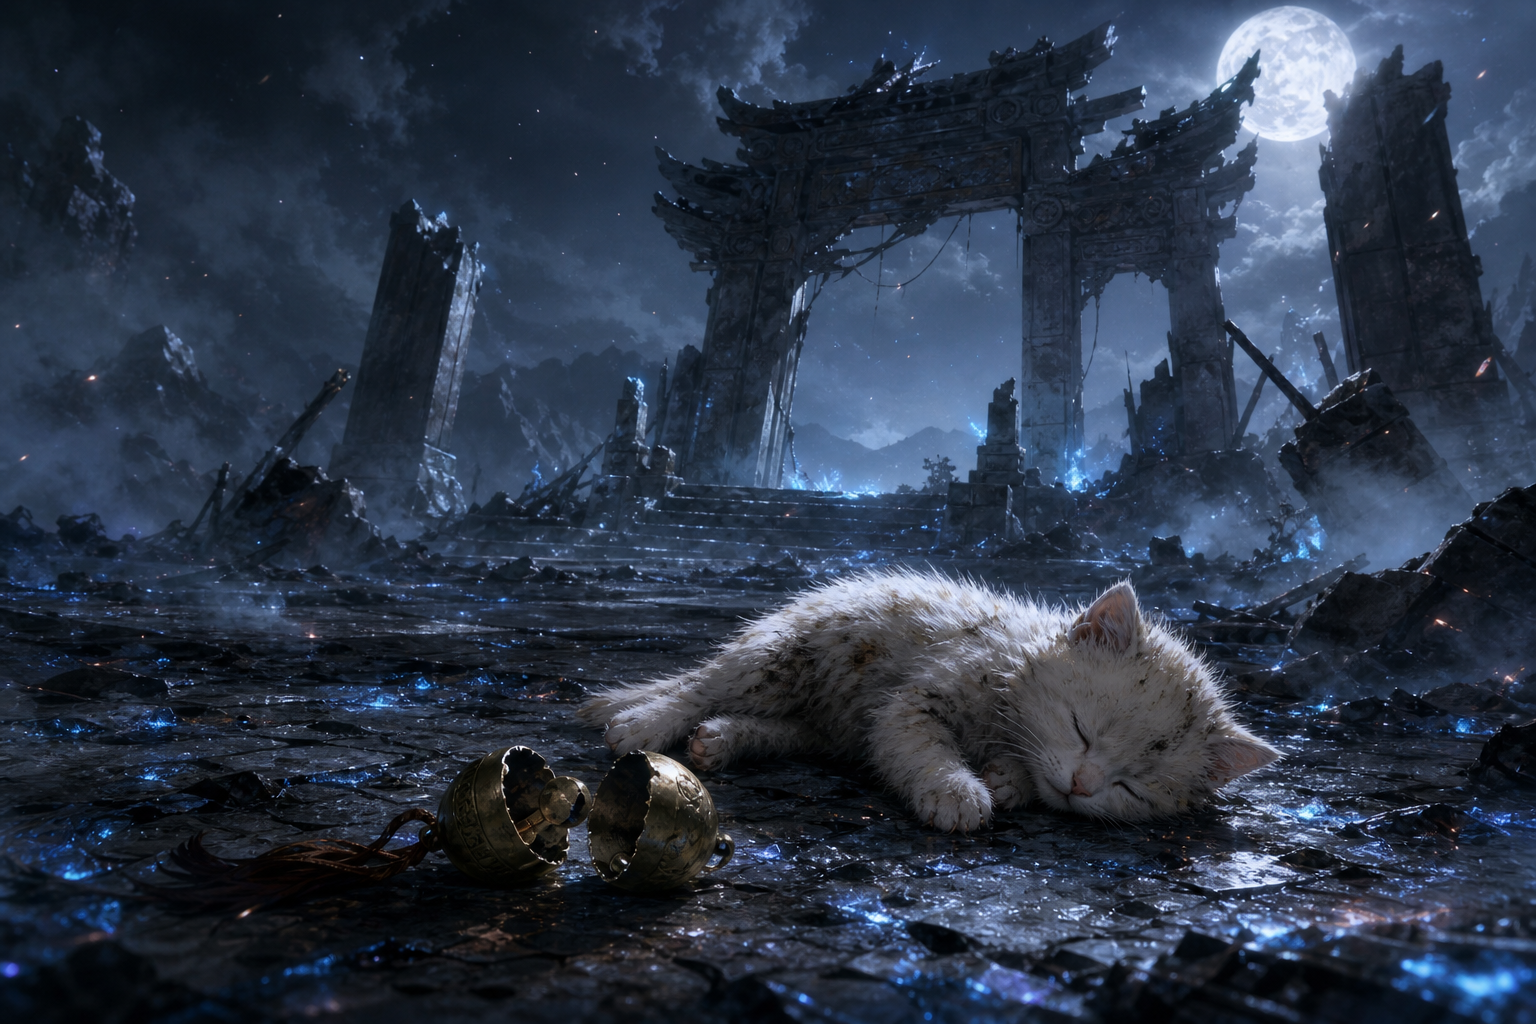
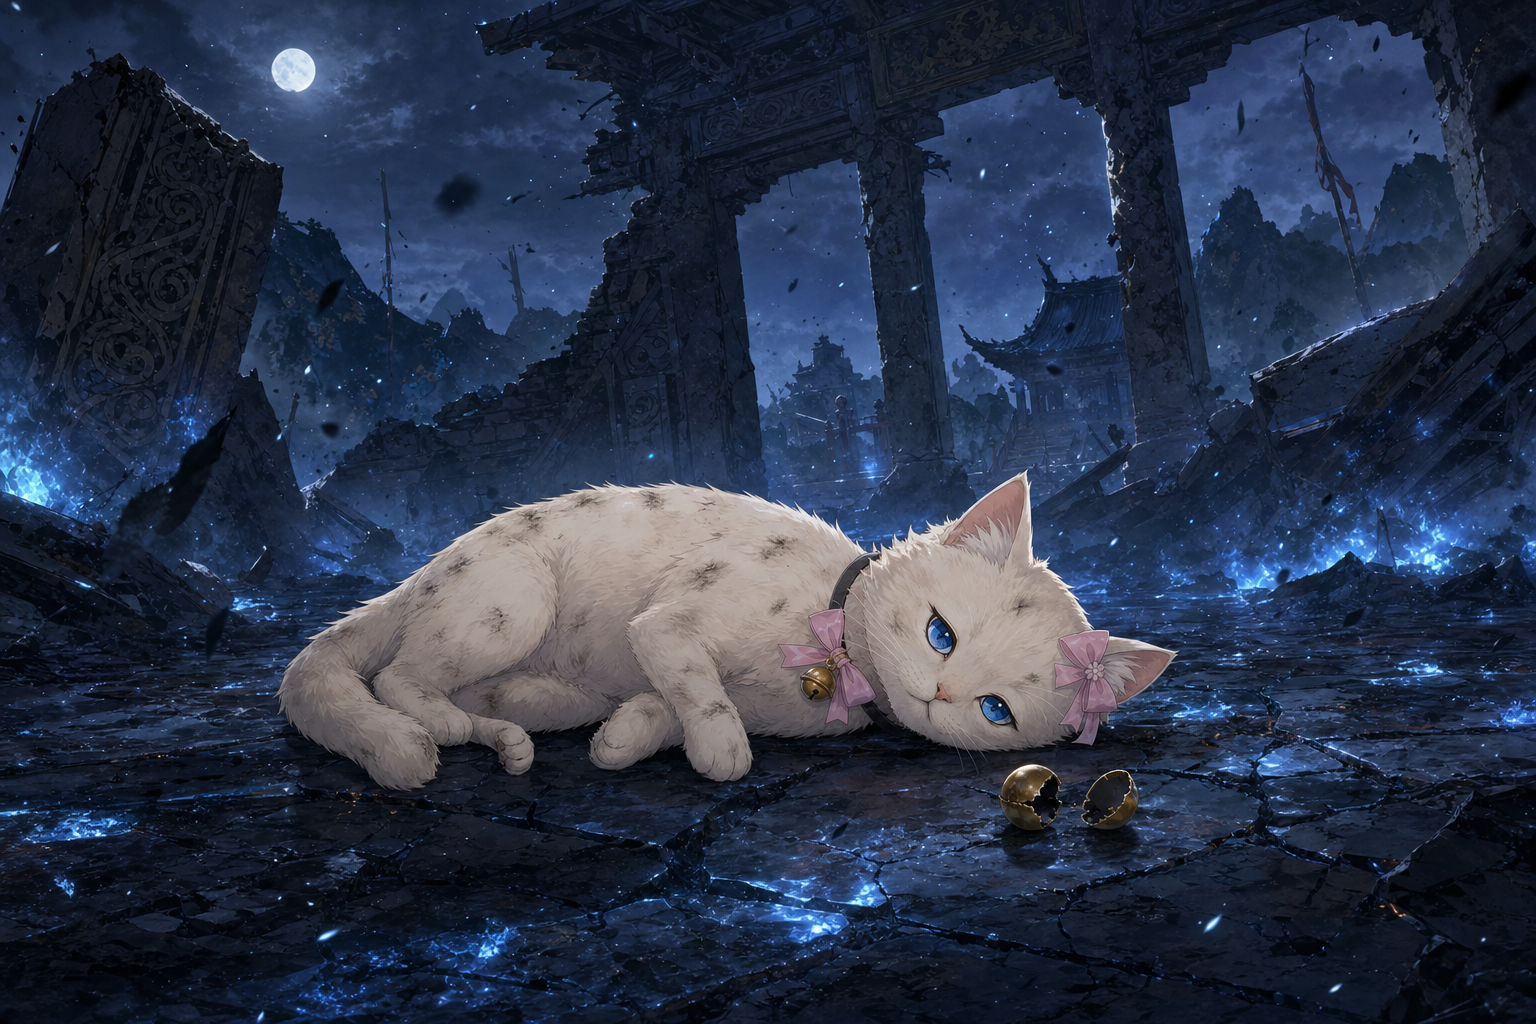
修复历史OOC 3张 + CG切换2秒缩放亮相
OOC修复（审核子agent发现）：
- cg_arena_tend：眼睛由粉紫改回亮蓝，娇小可爱一致
- cg_burn_ash：写实3D猫改回柔和日系动画猫（锚cat_normal）
- cg_cat_window：同上，雨夜窗台奶白猫蓝眼粉结金铃

CG切换亮相：
- 新CG出现时2秒非常轻微的缩放亮相
- 期间锁住"前进到下一句"，点击只完成当前文字，防止手快划过
- 2秒后恢复正常点击；自动播放/快进同步适配

diff --git a/web/engine.js b/web/engine.js
@@ -197,8 +197,22 @@
   }
 
   /* ---------- CG（粘滞：声明开启，cgOff/换背景关闭） ---------- */
-  let curCg = null;
+  let curCg = null, cgLocked = false, cgLockTimer = null;
   function hideCg() { curCg = null; $('cg-layer').classList.add('hidden'); }
+  /* CG 刚切换：2秒轻微缩放亮相，期间锁住"前进到下一句"，防止手快划过 */
+  function startCgIntro() {
+    const img = $('cg-img');
+    img.classList.remove('cg-intro'); void img.offsetWidth; img.classList.add('cg-intro');
+    cgLocked = true;
+    $('advance-hint').classList.remove('on');
+    clearTimeout(cgLockTimer);
+    cgLockTimer = setTimeout(() => {
+      cgLocked = false;
+      img.classList.remove('cg-intro');
+      if (!typing) $('advance-hint').classList.add('on');
+      if (autoOn && !typing) scheduleAuto();
+    }, 2000);
+  }
   function renderCg(node, bgChanged) {
     const layer = $('cg-layer'), img = $('cg-img'), fb = $('cg-fallback');
     if (node.cg) {
@@ -208,6 +222,7 @@
         img.classList.remove('hidden'); fb.classList.add('hidden');
         img.onerror = () => { img.classList.add('hidden'); fb.classList.remove('hidden'); fb.textContent = '— ' + (window.CG_TITLES[node.cg] || node.cg) + ' —'; };
         img.src = 'assets/cg/' + node.cg + '.png';
+        startCgIntro();
       }
       layer.classList.remove('hidden');
     } else if (node.cgOff || bgChanged) {
@@ -224,16 +239,16 @@
     const el = $('text'); el.textContent = '';
     $('advance-hint').classList.remove('on');
     const ms = 86 - (G.settings.speed * 0.78);
-    if (ms <= 9) { el.textContent = text; typing = false; $('advance-hint').classList.add('on'); onTextDone(); return; }
+    if (ms <= 9) { el.textContent = text; typing = false; if (!cgLocked) $('advance-hint').classList.add('on'); onTextDone(); return; }
     let i = 0;
     typeTimer = setInterval(() => {
       i += 1; el.textContent = text.slice(0, i);
-      if (i >= text.length) { clearInterval(typeTimer); typing = false; $('advance-hint').classList.add('on'); onTextDone(); }
+      if (i >= text.length) { clearInterval(typeTimer); typing = false; if (!cgLocked) $('advance-hint').classList.add('on'); onTextDone(); }
     }, ms);
   }
   function completeType() {
     clearInterval(typeTimer); typing = false;
-    $('text').textContent = fullText; $('advance-hint').classList.add('on');
+    $('text').textContent = fullText; if (!cgLocked) $('advance-hint').classList.add('on');
     onTextDone();
   }
 
@@ -345,6 +360,7 @@
     const node = STORY.nodes[state.node];
     if (!node) return;
     if (typing) { completeType(); return; }
+    if (cgLocked) return;
     if (node.ch) { showChoices(node); return; }
     if (node.end) { showEnding(node.end); return; }
     if (node.next) show(node.next);
